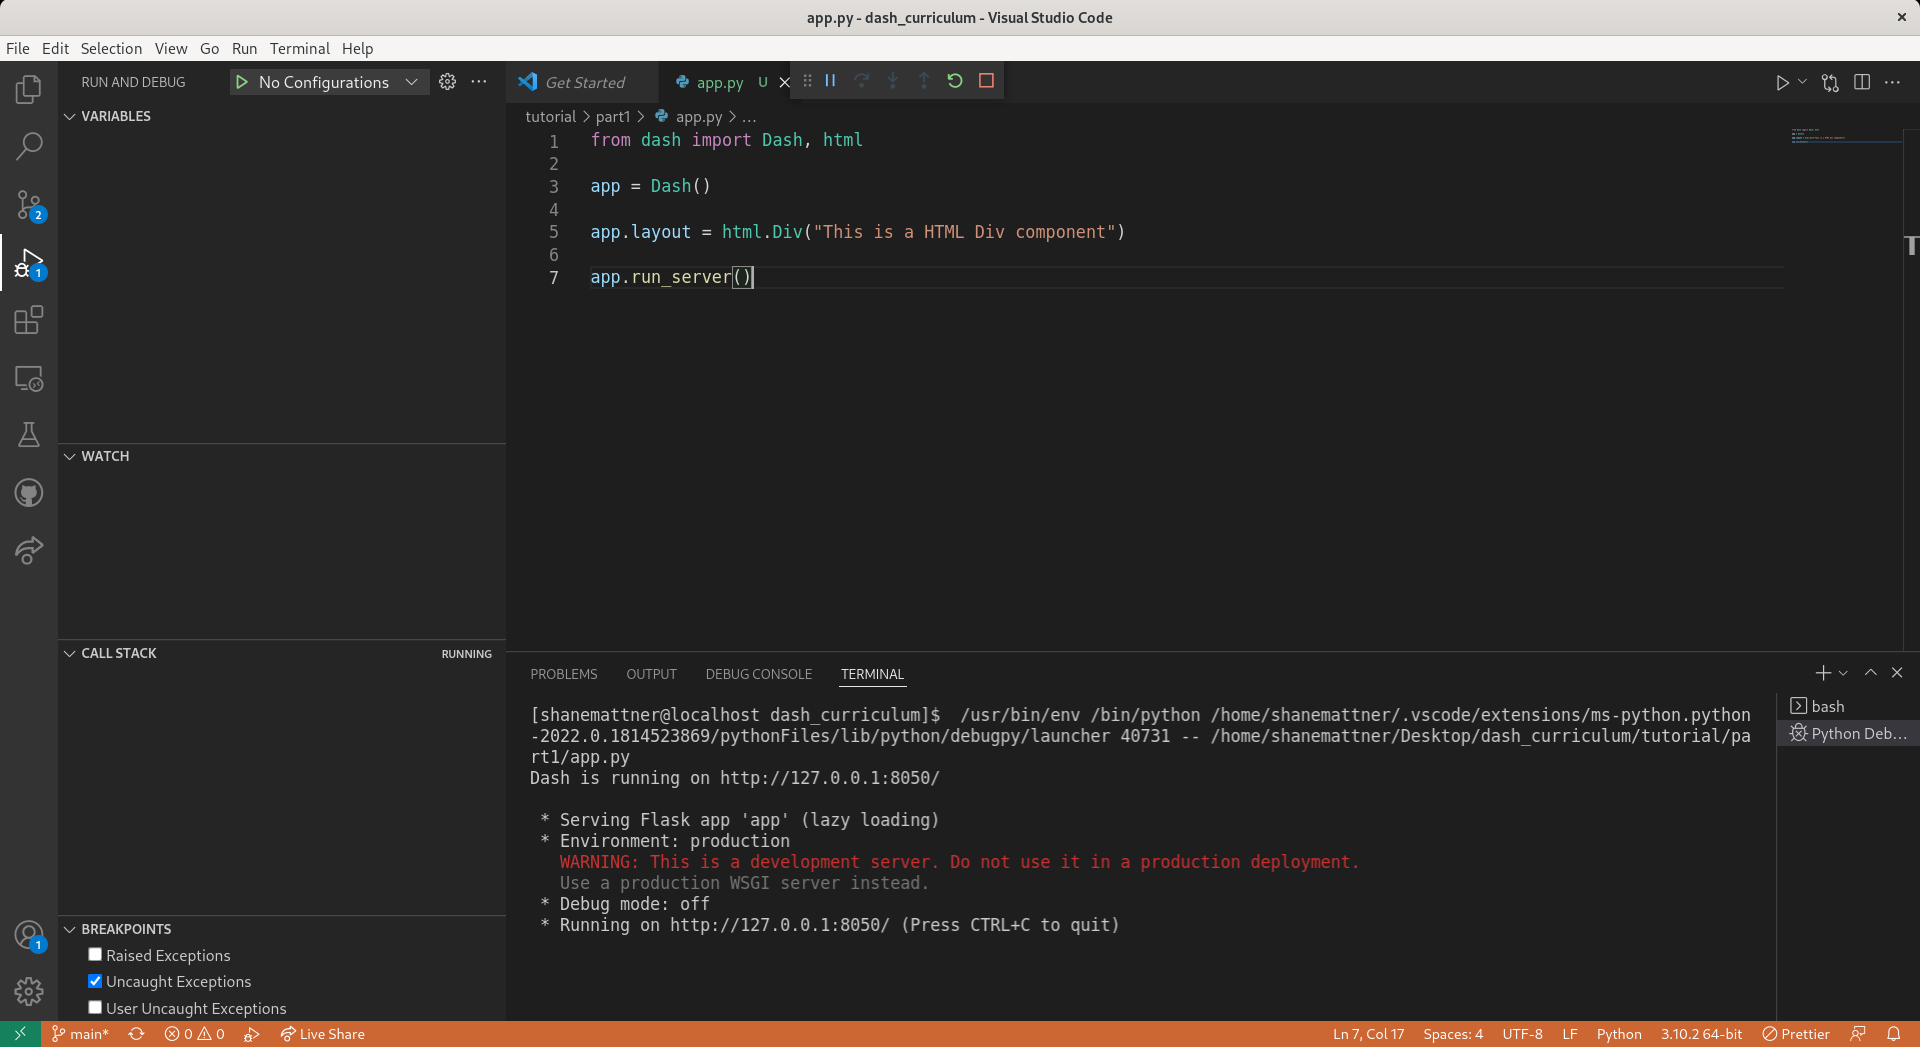
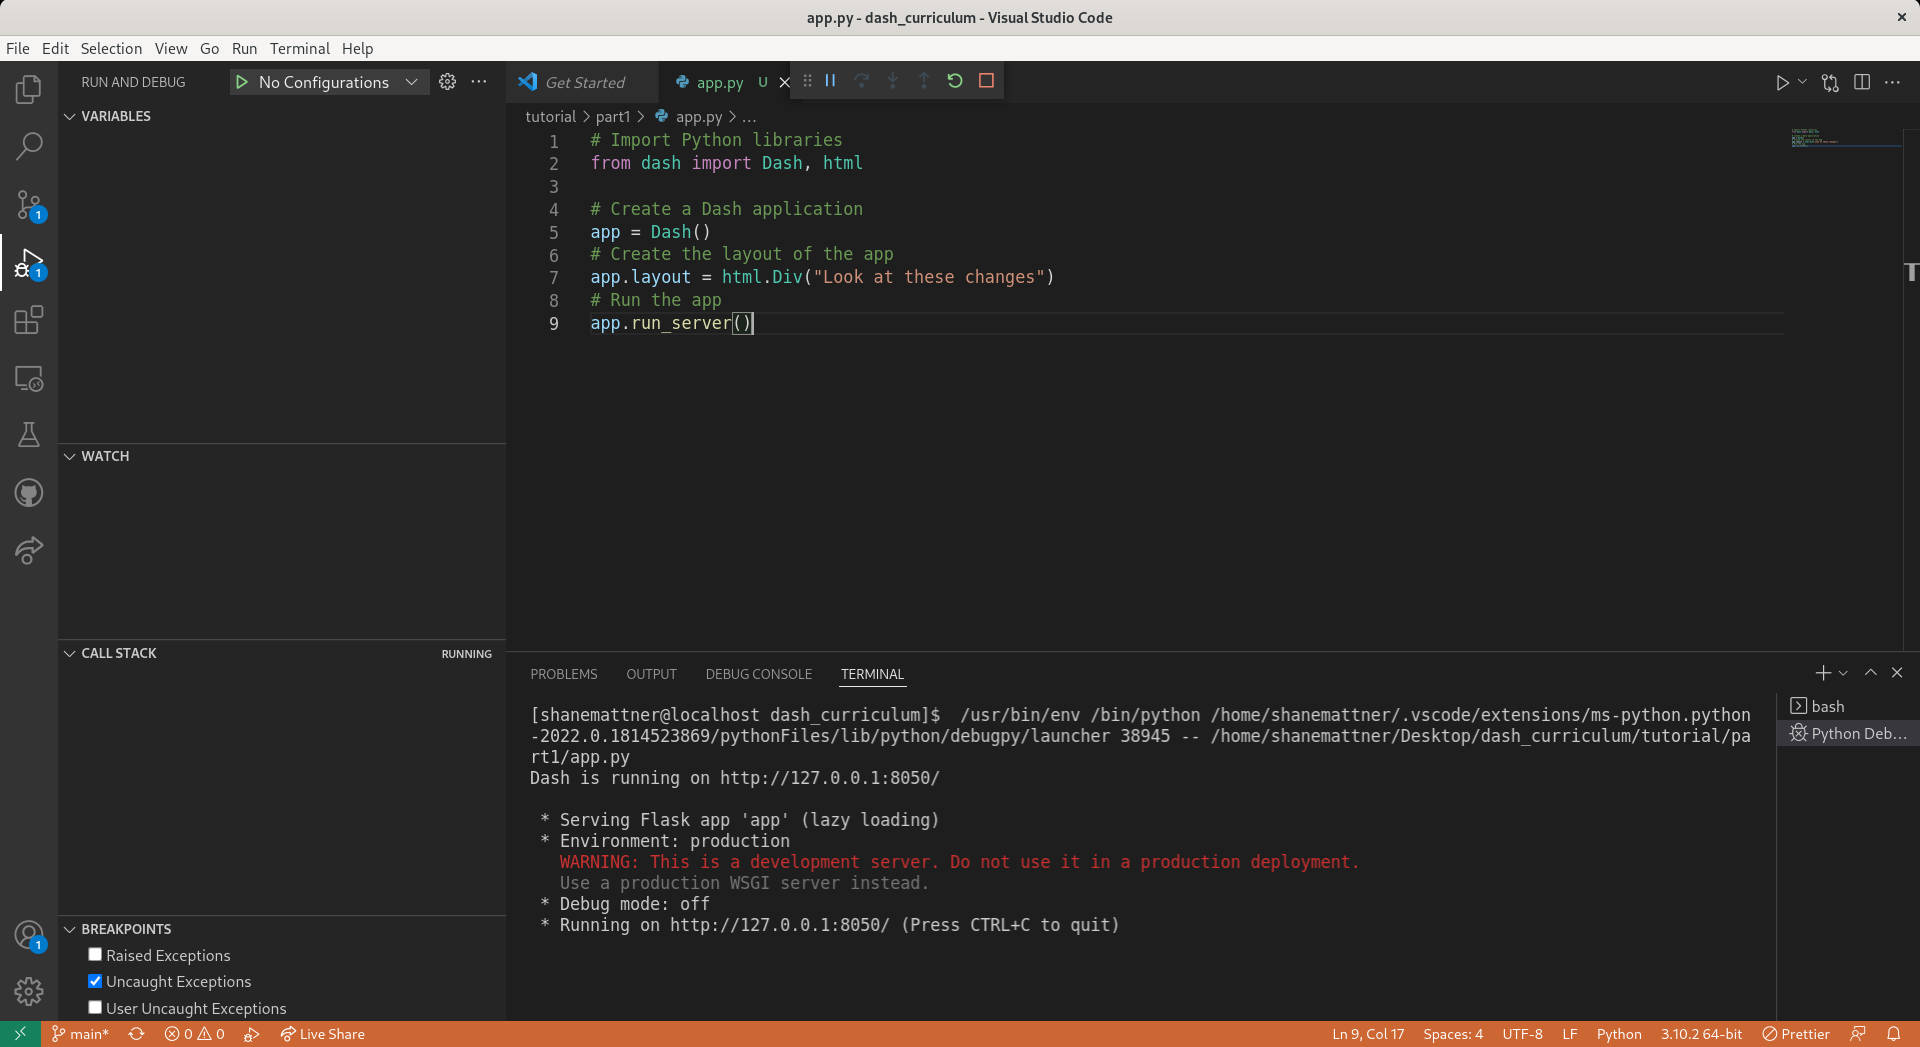
Added comment to minimal expample.

Changed region(s): [[0.3125, 0.1223, 0.5312, 0.3362], [0.9375, 0.1223, 0.9688, 0.1528], [0.5312, 0.2139, 0.5625, 0.2445]]

diff --git a/tutorial/part1/chapter3.md b/tutorial/part1/chapter3.md
@@ -13,12 +13,14 @@ The **layout** is made up of **components**.  Let's make a small Dash applicatio
 
 Copy/paste the minimal Dash app code below.  
 ```python
-from dash import Dash, html
+# Import Python libraries
+from dash import Dash, html 
 
+# Create a Dash application
 app = Dash()
-
-app.layout = html.Div("This is a HTML Div component")
-
+# Create the layout of the app
+app.layout = html.Div("Look at these changes")
+# Run the app
 app.run_server()
 ```
 
